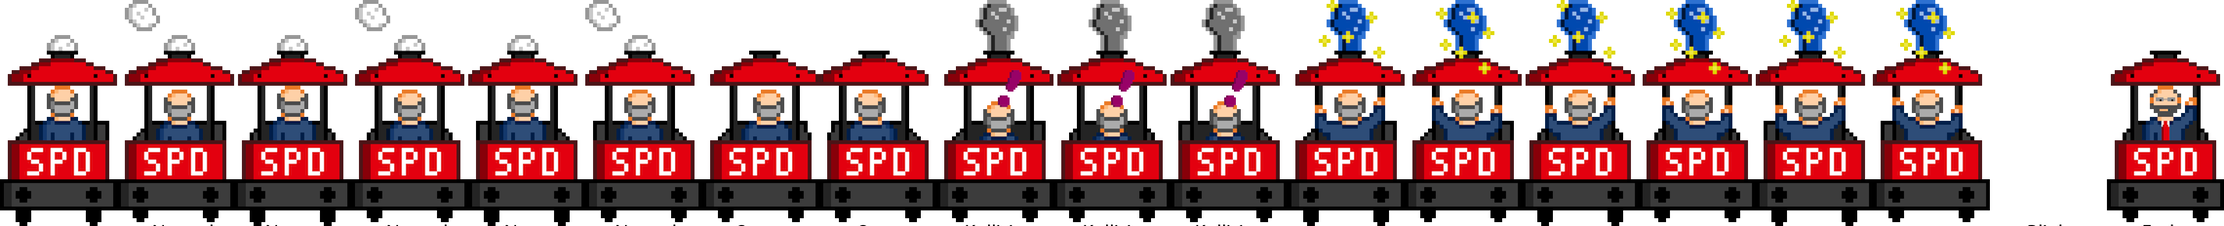
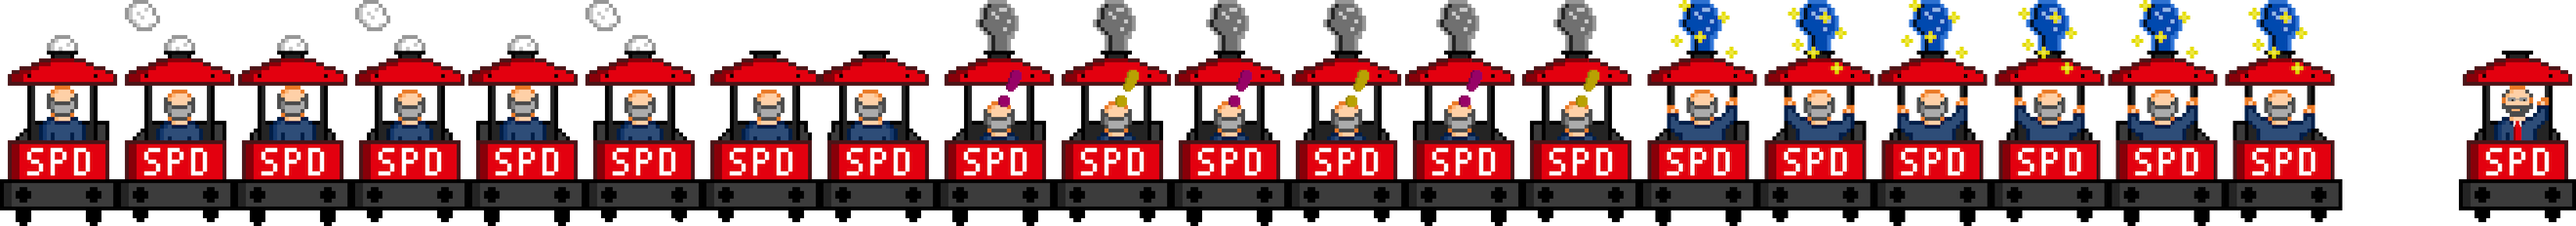
added collisions for left/right lane

diff --git a/js/schulzzug.js b/js/schulzzug.js
@@ -136,6 +136,8 @@ let train_animations  = ["train_left", "train_center", "train_right"];
 
 let train_star_animations = ["star_left", "star_center", "star_right"];
 
+let train_collision_animations = ["collision_left", "collision_center", "collision_right"];
+
 // this is false if the train jumps
 let rail_can_change = true;
 
@@ -343,10 +345,15 @@ function create() {
     train.animations.add('train_right', [4, 5], 7, true);
     train.animations.add('jump_left',[6],10,true);
     train.animations.add('jump_right',[7],10,true);
-    train.animations.add('collision',[9,17],10,true);
-    train.animations.add('star_left', [11,12], 10, true);
-    train.animations.add('star_right', [15,16], 10, true);
-    train.animations.add('star_center', [13,14], 10, true);
+    
+    train.animations.add('collision_left',[8,9,20],10,true);
+    train.animations.add('collision_center',[10,11,20],10,true);
+    train.animations.add('collision_right',[12,13,20],10,true);
+    
+    train.animations.add('star_left', [14,15], 10, true);
+    train.animations.add('star_center', [16,17], 10, true);
+    train.animations.add('star_right', [18,19], 10, true);
+    
     
     
     
@@ -831,7 +838,7 @@ function collision_update(object, train) {
             } else if (time_delta === 0.0){
                 sound_smash.play();
                 notify_objective_c("smashed-wall");
-                train.animations.play("collision");
+                train.animations.play(train_collision_animations[train.rail]);
                 train.indefeatable = true;
                 if (coin_counter >= 10) {
                     coin_counter -= 10;
